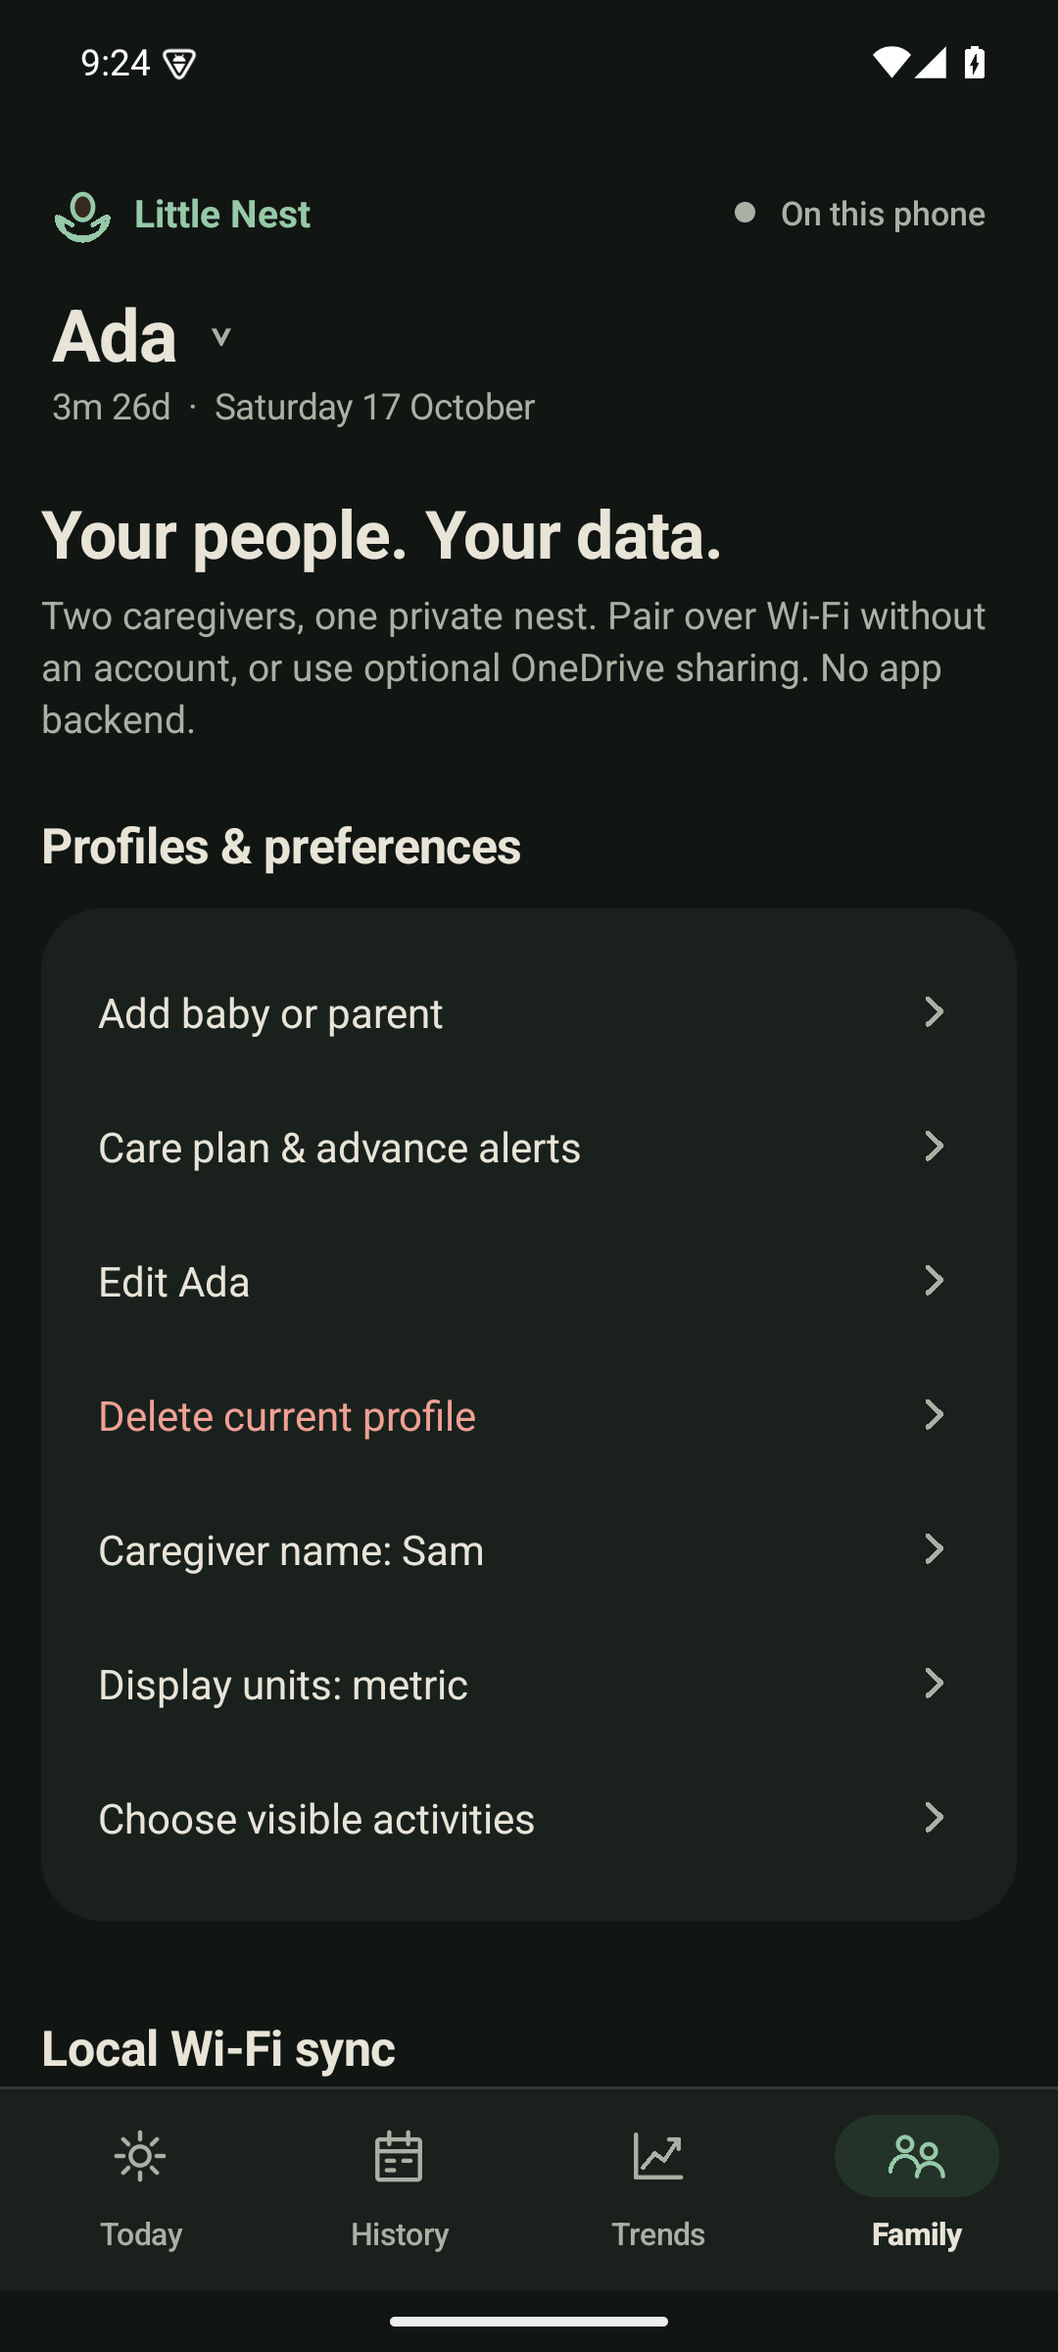
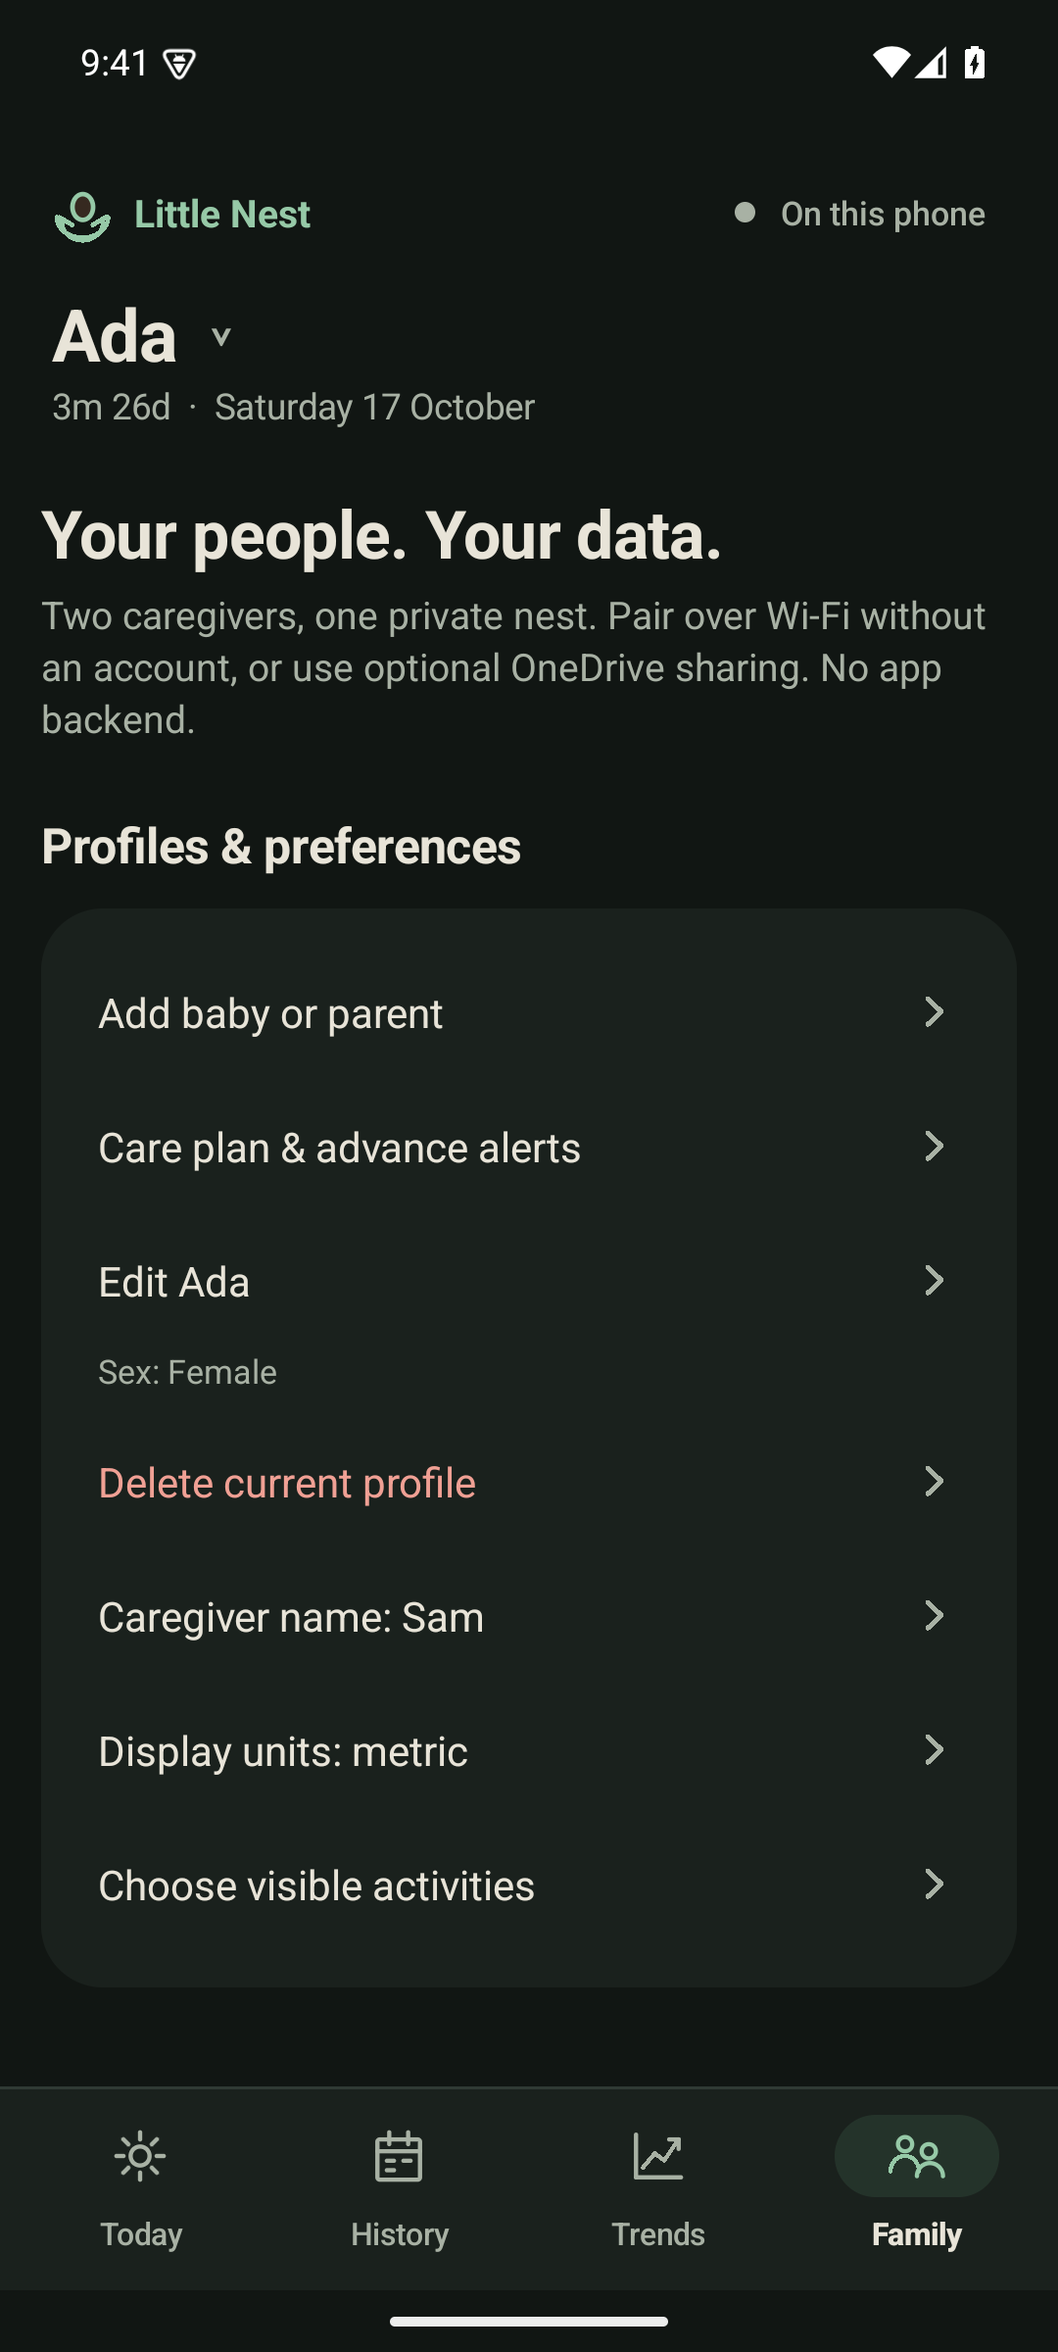
Release 1.8.0: woven day design, screenshots and design docs
Group profile facts under the edit row, seed demo growth data with WHO
reference curves, refresh all day and night screenshots, add the wiki
Screenshots page and DESIGN.md, and bump to versionCode 9 / 1.8.0.

Changed region(s): [[0.0917, 0.5625, 0.4889, 0.8125], [0.0611, 0.8438, 0.3667, 0.875], [0.0917, 0.0, 0.1528, 0.0312]]

diff --git a/app/src/main/java/app/littlenest/MainActivity.java b/app/src/main/java/app/littlenest/MainActivity.java
@@ -784,12 +784,19 @@ public final class MainActivity extends Activity {
         if (profile() != null && profile().optString("role").equals("Baby"))
             people.addView(Ui.rowButton(this, "Care plan & advance alerts", () -> CarePlanUi.settings(this, profile())));
         if (!CareReminders.error(this).isEmpty()) people.addView(Ui.text(this, CareReminders.error(this), 14, Ui.INK));
-        if (profile() != null && !profile().optString("sex").isBlank()) people.addView(Ui.text(this, "Sex: " + profile().optString("sex"), 13, Ui.MUTED));
-        if (profile() != null && !profile().optString("adjustedDob").isBlank()) {
-            JSONObject adjustedProfile = Records.copy(profile()); Records.put(adjustedProfile, "dob", adjustedProfile.optString("adjustedDob"));
-            people.addView(Ui.text(this, "Adjusted birth date: " + profile().optString("adjustedDob") + " / adjusted age: " + age(adjustedProfile), 13, Ui.MUTED));
+        if (profile() != null) {
+            people.addView(Ui.rowButton(this, "Edit " + profile().optString("name"), () -> profileEditor(profile())));
+            List<String> facts = new ArrayList<>();
+            if (!profile().optString("sex").isBlank()) facts.add("Sex: " + profile().optString("sex"));
+            if (!profile().optString("adjustedDob").isBlank()) {
+                JSONObject adjustedProfile = Records.copy(profile()); Records.put(adjustedProfile, "dob", adjustedProfile.optString("adjustedDob"));
+                facts.add("Adjusted birth date: " + profile().optString("adjustedDob") + " / adjusted age: " + age(adjustedProfile));
+            }
+            if (!facts.isEmpty()) {
+                TextView detail = Ui.text(this, String.join("\n", facts), 13, Ui.MUTED);
+                detail.setPadding(Ui.dp(this, 4), 0, Ui.dp(this, 4), Ui.dp(this, 8)); people.addView(detail);
+            }
         }
-        if (profile() != null) people.addView(Ui.rowButton(this, "Edit " + profile().optString("name"), () -> profileEditor(profile())));
         if (profile() != null) people.addView(Ui.rowButton(this, "Delete current profile", () -> {
             JSONObject selected = profile();
             new AlertDialog.Builder(this).setTitle("Delete " + selected.optString("name") + "?")

diff --git a/app/src/androidTest/java/app/littlenest/DemoData.java b/app/src/androidTest/java/app/littlenest/DemoData.java
@@ -24,6 +24,7 @@ public class DemoData {
         Store store = Store.get(context);
         JSONObject profile = new JSONObject(); Records.put(profile, "entity", "profile"); Records.put(profile, "name", "Ada");
         Records.put(profile, "role", "Baby"); Records.put(profile, "dob", LocalDate.now().minusDays(118).toString());
+        Records.put(profile, "sex", "Female");
         String id = store.save(null, profile, false);
         context.getSharedPreferences("settings", Context.MODE_PRIVATE).edit().putString("profile", id).putString("caregiver", "Sam").apply();
         ZoneId zone = ZoneId.systemDefault(); long now = System.currentTimeMillis();
@@ -64,6 +65,14 @@ public class DemoData {
                 Records.put(e, "height", d == 9 ? "61.0" : "62.2"); Records.put(e, "head", d == 9 ? "40.1" : "40.6"); Records.put(e, "lengthUnit", "cm"); Records.put(e, "headUnit", "cm");
                 store.save(null, e, false);
             }
+        }
+        String[][] earlier = {{"118", "3.3", "49.5", "34.0"}, {"76", "4.6", "55.0", "37.2"}, {"40", "5.4", "58.4", "38.9"}};
+        for (String[] g : earlier) {
+            long start = LocalDate.now().minusDays(Integer.parseInt(g[0])).atStartOfDay(zone).toInstant().toEpochMilli() + 11 * 60 * MIN;
+            JSONObject e = event(id, "growth", start, start, "Sam");
+            Records.put(e, "weight", g[1]); Records.put(e, "weightUnit", "kg"); Records.put(e, "height", g[2]);
+            Records.put(e, "head", g[3]); Records.put(e, "lengthUnit", "cm"); Records.put(e, "headUnit", "cm");
+            store.save(null, e, false);
         }
         long visit = LocalDate.now().plusDays(3).atStartOfDay(zone).toInstant().toEpochMilli() + 10 * 60 * MIN;
         JSONObject appointment = event(id, "appointment", visit, visit, "Sam");

diff --git a/wiki/Screenshots.md b/wiki/Screenshots.md
@@ -1,0 +1,59 @@
+# Screenshots
+
+Little Nest 1.8 "Woven day" design. Every screenshot uses **synthetic demo data
+only**: a baby called Ada, two caregivers called Sam and Alex, and two weeks of
+made-up feeds, sleep, nappies and growth measurements. Select an image to see it
+full size.
+
+## Light (day)
+
+| Today | Activity tiles | Running timer |
+|:---:|:---:|:---:|
+| [<img src="../docs/screenshots/today.png" alt="Today with the day weave, current state and coming-up care" width="240">](../docs/screenshots/today.png) | [<img src="../docs/screenshots/today-tiles.png" alt="Feed activity tiles with time since last feed" width="240">](../docs/screenshots/today-tiles.png) | [<img src="../docs/screenshots/timer.png" alt="A running breastfeeding timer with pause, switch side and finish" width="240">](../docs/screenshots/timer.png) |
+| The day weave shows the last 18 hours as solid threads and suggested times as dashed outlines. Below it: last feed, awake time and today's nappies. | One tap logs a feed. Each tile shows how long ago it last happened. | Timers sit at the top of Today with large, steady numbers. |
+
+| Bottle logging | Nap planning details | History |
+|:---:|:---:|:---:|
+| [<img src="../docs/screenshots/bottle-form.png" alt="Bottle entry form with times, milk type and amounts" width="240">](../docs/screenshots/bottle-form.png) | [<img src="../docs/screenshots/care-details.png" alt="Nap sweet spot details explaining how the estimate was made" width="240">](../docs/screenshots/care-details.png) | [<img src="../docs/screenshots/history.png" alt="History grouped by day with date controls and search" width="240">](../docs/screenshots/history.png) |
+| The form title uses the feed thread colour. Details are optional. | Every estimate explains where it came from, in plain words. | Entries are grouped by day, with a date picker and search. |
+
+| Trends | Daily comparison | Growth |
+|:---:|:---:|:---:|
+| [<img src="../docs/screenshots/trends.png" alt="Trends with a weekly summary and 7-day sleep pattern" width="240">](../docs/screenshots/trends.png) | [<img src="../docs/screenshots/trends-table.png" alt="Daily comparison table of feeds, nappies and sleep" width="240">](../docs/screenshots/trends-table.png) | [<img src="../docs/screenshots/growth.png" alt="Weight chart against WHO percentile curves" width="240">](../docs/screenshots/growth.png) |
+| This week against last week, then a 7-day sleep pattern. | One row per day for quick comparison. | Measurements against WHO reference curves (from version 1.7). |
+
+| Family |
+|:---:|
+| [<img src="../docs/screenshots/family.png" alt="Family profiles and preferences" width="240">](../docs/screenshots/family.png) |
+| Profiles, caregivers, preferences and sync settings. |
+
+## Dark (night)
+
+The app follows the phone's dark-mode setting. The night palette is dim and
+low-glare for 3 a.m. feeds, and keeps text contrast above 6:1.
+
+| Today | History | Trends | Family |
+|:---:|:---:|:---:|:---:|
+| [<img src="../docs/screenshots/today-dark.png" alt="Today in the night palette" width="200">](../docs/screenshots/today-dark.png) | [<img src="../docs/screenshots/history-dark.png" alt="History in the night palette" width="200">](../docs/screenshots/history-dark.png) | [<img src="../docs/screenshots/trends-dark.png" alt="Trends in the night palette" width="200">](../docs/screenshots/trends-dark.png) | [<img src="../docs/screenshots/family-dark.png" alt="Family in the night palette" width="200">](../docs/screenshots/family-dark.png) |
+
+## Make new screenshots
+
+Use a disposable test emulator, never a phone with real family data. The demo
+data comes from `app/src/androidTest/java/app/littlenest/DemoData.java`. It only
+runs when asked with `-e demo true`, so normal test runs skip it.
+
+```bash
+source scripts/env.sh
+export ANDROID_SERIAL=emulator-5554   # your own test emulator
+./gradlew :app:installDebug :app:installDebugAndroidTest
+adb shell pm clear app.littlenest     # wipes the app's data on this emulator
+adb shell am instrument -w -e class app.littlenest.DemoData -e demo true \
+  app.littlenest.test/androidx.test.runner.AndroidJUnitRunner
+adb shell am start -n app.littlenest/.MainActivity
+adb exec-out screencap -p > docs/screenshots/today.png
+```
+
+For the night set, run `adb shell cmd uimode night yes` before capturing and
+`adb shell cmd uimode night no` afterwards. Reload the demo data before the
+night set if you started a timer, so it does not appear in other screenshots.
+Keep the file names above so the README and this page stay correct.

diff --git a/DESIGN.md b/DESIGN.md
@@ -1,0 +1,86 @@
+# Design: Woven day
+
+<!-- impeccable:design-schema 1 -->
+
+Little Nest 1.8 replaces the 1.4 card look with **Woven day**. A baby's day is a
+set of threads: feeds, sleep, nappies, health, and the parents' own care. Each
+thread has one colour. The past is drawn as solid thread; planned or suggested
+times are dashed outlines, never solid, because they are estimates.
+
+Mode: **Operate**. People use the app tired, one-handed and often in a dark
+room. Scanning speed and calm come before decoration.
+
+## Colour
+
+All tokens live in `Ui.java`. The palette follows the system dark setting
+(`res/values-night/styles.xml`).
+
+| Role | Day | Night | Use |
+|---|---|---|---|
+| `BG` | `#F7F4EC` warm paper | `#111613` | Screen background |
+| `SURFACE` | `#FFFDF8` | `#1A211D` | Panels and dialogs |
+| `INK` | `#26352C` | `#E8E4D8` | Body text |
+| `MUTED` | `#576357` | `#A8B1A4` | Secondary text, axis labels |
+| `GREEN` | `#2B5B45` forest | `#96C9A7` | Brand, primary action, "now" line |
+| `LINE` | `#DDE0D4` | `#303A34` | Hairlines and stitches |
+
+Thread colours (marks and graphics only, never body text):
+
+| Thread | Day | Night | Kinds |
+|---|---|---|---|
+| `FEED` | `#C46E34` | `#E7A06E` | Breast, bottle, solids |
+| `SLEEP` | `#4A659E` | `#93AEDB` | Sleep, parent sleep |
+| `PUMP` | `#AE5268` | `#E296A8` | Pumping |
+| `DIAPER` | `#A68026` | `#D9BC6A` | Diapers, tummy time, bath, story, routines |
+| `HEALTH` | `#2C7C6A` | `#7FC7B4` | Growth, medicine, vaccines, temperature, visits |
+| `PARENT` | `#7A5CA6` | `#BBA2DE` | Parent care |
+| `MEMORY` | `#96628C` | `#D6A0C8` | Milestones, journal, photos |
+
+Soft tints (`PEACH`, `BLUE`, `SAND`, …) back activity tiles and timeline lanes.
+Text on every surface stays at 4.5:1 or better; `IdentityTest` checks the day
+values and the night palette was checked by hand (lowest 6.0:1).
+
+## Type
+
+- System sans (Roboto). Sizes in sp so the system font scale applies, including
+  text drawn on canvases (`Ui.sp`).
+- Times, counts and table numbers use tabular figures (`Ui.figures`) so columns
+  line up and timers do not jitter.
+- Screen titles are short and warm: "A day at a time", "The story so far",
+  "Find your rhythm", "Your people. Your data."
+
+## Shape and structure
+
+- `Ui.panel`: rounded grouping surface, a hairline edge by day and a lifted
+  tone by night. No drop shadows.
+- `Ui.section`: a plain heading above a panel. `Ui.stitch`: a dashed divider.
+- `Ui.rowButton`: a full-width list row with a chevron, at least 52dp tall.
+- Primary actions are forest-green pills; secondary actions are quiet tinted
+  pills. Every touch target is at least 48dp.
+- Bottom navigation: Today, History, Trends, Family, with a tinted indicator
+  behind the selected icon.
+
+## Signature components
+
+- **Day weave** (`DayWeaveView`): the last 18 hours and the next 6 on one
+  strip, one lane per thread. Solid marks are logged care, dashed outlines are
+  suggested windows, and a green line marks now. The key under it lists only the
+  threads actually drawn. TalkBack reads a plain summary of the same items.
+- **History timeline**: rows grouped by day, each with time, a thread dot, the
+  title, a short summary and the caregiver.
+- **Trends**: a week-on-week summary, a 7-day sleep pattern, small charts in
+  thread colours, and a daily comparison table. WHO growth charts
+  (`GrowthUi`, `GrowthChartView`) sit in the same panels.
+
+## Motion
+
+Minimal. Native ripples on press. No decorative animation; the running timer
+is the only thing that changes on its own.
+
+## Do not
+
+- Use thread colours for body text or large fills.
+- Draw an estimate as solid; estimates are dashed.
+- Add shadows, gradients or glass effects.
+- Show real family data in screenshots; use `DemoData` (see the wiki
+  [Screenshots](wiki/Screenshots.md) page).

diff --git a/README.md b/README.md
@@ -6,18 +6,21 @@ private shared nest.
 
 ## Screenshots
 
-Android screenshots of the **1.4 design**, using synthetic demo data only.
-Version 1.5 retains this design and adds the planning comparisons described below.
-The Family screenshot predates the 1.6 sync changes described below.
-Select a screenshot to view it full-size.
+Android screenshots of the **1.8 "Woven day" design**, using synthetic demo data
+only. Select a screenshot to view it full-size, or see
+[every screenshot, including night mode](wiki/Screenshots.md).
 
-| Today & activity tiles | Activity history | Sleep trends |
+| Today | History | Trends |
 |:---:|:---:|:---:|
-| [<img src="docs/screenshots/today.png" alt="Today with upcoming care and feed activity tiles" width="240">](docs/screenshots/today.png) | [<img src="docs/screenshots/history.png" alt="History with search and saved activity details" width="240">](docs/screenshots/history.png) | [<img src="docs/screenshots/trends.png" alt="Trends with a sleep timeline and daily sleep chart" width="240">](docs/screenshots/trends.png) |
+| [<img src="docs/screenshots/today.png" alt="Today with the day weave, current state and coming-up care" width="240">](docs/screenshots/today.png) | [<img src="docs/screenshots/history.png" alt="History grouped by day with date controls and search" width="240">](docs/screenshots/history.png) | [<img src="docs/screenshots/trends.png" alt="Trends with a weekly summary and 7-day sleep pattern" width="240">](docs/screenshots/trends.png) |
 
-| Family & preferences | Bottle logging | Feed planning |
+| Running timer | Growth | Family |
 |:---:|:---:|:---:|
-| [<img src="docs/screenshots/family.png" alt="Family profiles, preferences and private Drive sync settings" width="240">](docs/screenshots/family.png) | [<img src="docs/screenshots/bottle-form.png" alt="Bottle entry form with amounts, units and milk components" width="240">](docs/screenshots/bottle-form.png) | [<img src="docs/screenshots/care-details.png" alt="Suggested feed window with its basis and snooze or dismiss controls" width="240">](docs/screenshots/care-details.png) |
+| [<img src="docs/screenshots/timer.png" alt="A running breastfeeding timer with pause, switch side and finish" width="240">](docs/screenshots/timer.png) | [<img src="docs/screenshots/growth.png" alt="Weight chart against WHO percentile curves" width="240">](docs/screenshots/growth.png) | [<img src="docs/screenshots/family.png" alt="Family profiles and preferences" width="240">](docs/screenshots/family.png) |
+
+| Today at night | History at night | Trends at night |
+|:---:|:---:|:---:|
+| [<img src="docs/screenshots/today-dark.png" alt="Today in the night palette" width="240">](docs/screenshots/today-dark.png) | [<img src="docs/screenshots/history-dark.png" alt="History in the night palette" width="240">](docs/screenshots/history-dark.png) | [<img src="docs/screenshots/trends-dark.png" alt="Trends in the night palette" width="240">](docs/screenshots/trends-dark.png) |
 
 ## Install on your two phones
 
@@ -70,6 +73,15 @@ Start with the **[small wiki](wiki/Home.md)**:
 
 No ads, analytics, app backend, remote notifications, public feeds or subscriptions.
 Parent logs are shared with your partner too.
+
+## Version 1.8: Woven day design
+
+A calmer, clearer look. Each kind of care has its own thread colour, used the
+same way on every screen. **Today** opens with a 24-hour strip: what happened is
+drawn solid, suggested feed and nap times are dashed. History is a day-by-day
+timeline, Trends adds a daily comparison table, and the app follows the phone's
+dark mode with a dim night palette. Text respects the phone's font size.
+Data, storage and sync are unchanged. See [DESIGN.md](DESIGN.md).
 
 ## Version 1.7: WHO growth percentiles
 

diff --git a/releases/v1.8.0.md b/releases/v1.8.0.md
@@ -1,0 +1,24 @@
+# Little Nest 1.8.0
+
+## A calmer, clearer look: "Woven day"
+
+- Each kind of care now has its own thread colour (feeds, sleep, nappies,
+  health, parent care), used the same way on every screen.
+- **Today** opens with a 24-hour strip. What already happened is drawn solid;
+  suggested feed and nap times are dashed outlines, because they are estimates.
+  The key below it only lists colours that are actually shown.
+- **History** is a day-by-day timeline with date arrows, a date picker and search.
+- **Trends** shows this week against last week, a 7-day sleep pattern, charts in
+  thread colours and a daily comparison table. WHO growth charts from 1.7 sit in
+  the same layout.
+- **Family** and settings are tidy grouped lists.
+- The app follows the phone's dark mode with a dim, low-glare night palette.
+- Times and counts use evenly spaced digits, and chart text follows the phone's
+  font-size setting.
+- After saving an entry or using a timer, Today scrolls back to the top so you
+  can see the result.
+
+No data, storage, import or sync formats changed. Install this same-key APK over
+the existing app without uninstalling; Obtainium users can update as usual.
+
+See [screenshots](https://github.com/joshjm/little-nest/blob/v1.8.0/wiki/Screenshots.md).

diff --git a/wiki/Development.md b/wiki/Development.md
@@ -121,6 +121,13 @@ python3 scripts/smoke-apk.py emulator-5554 --reset --care-plan
 python3 scripts/smoke-nara-import.py emulator-5554
 ```
 
+To refresh the README and wiki screenshots with synthetic demo data, follow
+[Screenshots](Screenshots.md#make-new-screenshots).
+
+When more than one emulator is connected, set `ANDROID_SERIAL` (for example
+`export ANDROID_SERIAL=emulator-5554`) before running Gradle or adb, so tests
+never install to, or uninstall from, someone else's device.
+
 Use an owned test emulator, not a phone with personal production data.
 Instrumentation tests create test profiles. Depending on Gradle's test runner
 cleanup, the app may be uninstalled after the run.

diff --git a/wiki/Home.md b/wiki/Home.md
@@ -17,6 +17,8 @@ Optional OneDrive sharing keeps phones up to date while apart.
    checksums and maintainer release instructions.
 8. **[Growth charts](Growth-Charts.md)** — WHO percentiles, first-entry guides,
    adjusted-age viewing, research and interpretation.
+9. **[Screenshots](Screenshots.md)** — every screen in day and night mode, and
+   how to make new screenshots with synthetic demo data.
 
 ## Important before you start
 
